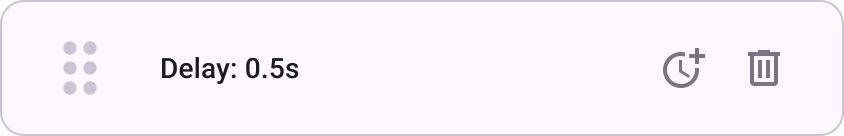
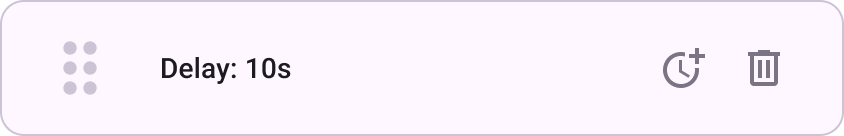
Updates to docs (delays)

Changed region(s): [[0.2773, 0.4118, 0.3697, 0.5882]]

diff --git a/docs/docs/v2/gettingStarted/clientConfiguration/030-usingDelays.md b/docs/docs/v2/gettingStarted/clientConfiguration/030-usingDelays.md
@@ -6,20 +6,19 @@ description: "How to use Delays"
 ---
 
 # Using Delays
-
-Delays are a helpful way to organize your processes and add `delay` to their startup.
+Delays are a helpful way to postpone the start of an application. For instance, if we need our `TouchDesigner_Data` processes to start 10 seconds after sudoSignals launches, we can use a `delay`.
 
 ![Client Profile Process 004](/img/client-configuration/v2-client-profile-process-004.png)
 
 ## Adding Delays
 
-On Configuration tab, the Processes column has a button to `Add Delay`.
+We can add a delay by pressing the `Add Delay` button in the Processes column.
 
 ![Client Profile Process 004A](/img/client-configuration/v2-client-profile-process-004A.png)
 
 ### Adjusting Delays
 
-By default, delays are set to `5 seconds`. Click on the clock icon to adjust the duration of the delay.
+By default, delays are set to `0.5 seconds`. Click on the clock icon to adjust the duration of the delay.
 
 ![Client Profile Process 005](/img/client-configuration/v2-client-profile-process-005.png)
 
@@ -30,3 +29,10 @@ A dialog will appear where you can adjust the duration (in seconds).
 The placement of the delay can also be adjusted by using the handle icon (left) of the delay card.
 
 ![Client Profile Process 005B](/img/client-configuration/v2-client-profile-process-005B.png)
+
+![Client Profile Process 005C](/img/client-configuration/v2-client-profile-process-005C.png)
+
+## Multiple Processes
+Delays are also a great way to organize multiple processes. Without delays, sudoSignals will launch all applications on start at the same time. With delays, we can organize our processes to start in a specific order and cadence.
+
+![Client Profile Process 005D](/img/client-configuration/v2-client-profile-process-005D.png)

diff --git a/docs/docs/v2/gettingStarted/clientConfiguration/040-settings.md b/docs/docs/v2/gettingStarted/clientConfiguration/040-settings.md
@@ -11,17 +11,23 @@ The sudoSignals client has addional settings for specifying directories, resetti
 
 ![Client Settings 01](/img/client-configuration/v2-client-settings-001.png)
 
-## Port Number
-Lorem ipsum dolor sit amet, consectetur adipiscing elit, sed do eiusmod tempor incididunt ut labore et dolore magna aliqua. 
+### Port Number
+The port that is used for operational communication between processes.
 
-## Profile Directory
+### Profile Directory
 The directory location for the client's profiles.
 
-## Log Directory
+### Log Directory
 The directory location for the client's log files.
 
-## Resetting Defaults
+### Resetting Defaults
 Pressing the `Reset Defaults` button will reset any changes made on the Settings page.
 
-## Revoking Access
+### Revoking Access
 Pressing the `Revoke Access` button will revoke the dashboard's access to the client. It will also generate a new token for the Client.
+
+### Save & Quit
+
+In order to apply changes in Settings, sudoSignals must save and quit. Please reopen the application to view any changes you may have applied.
+
+![Client Settings 01](/img/client-configuration/v2-client-settings-002.png)
